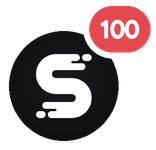
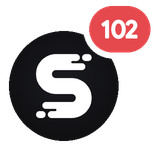
docs: refresh README contributors

Changed region(s): [[0.641, 0.1067, 0.8974, 0.2667]]

diff --git a/README.md b/README.md
@@ -154,7 +154,7 @@ Thank you to everyone who contributes to Rafeeq! Listed by commit contributions,
 
 <!-- CONTRIBUTORS:START -->
 <p>
-  <a href="https://github.com/teamsazen"><picture><source media="(prefers-color-scheme: dark)" srcset=".github/readme/contributors/98111211-dark.png"><img src=".github/readme/contributors/98111211-light.png" alt="teamsazen: 100 commits" title="teamsazen: 100 commits" width="78" height="75"></picture></a>
+  <a href="https://github.com/teamsazen"><picture><source media="(prefers-color-scheme: dark)" srcset=".github/readme/contributors/98111211-dark.png"><img src=".github/readme/contributors/98111211-light.png" alt="teamsazen: 102 commits" title="teamsazen: 102 commits" width="78" height="75"></picture></a>
   <a href="https://github.com/abdushakoor12"><picture><source media="(prefers-color-scheme: dark)" srcset=".github/readme/contributors/60779242-dark.png"><img src=".github/readme/contributors/60779242-light.png" alt="abdushakoor12: 2 commits" title="abdushakoor12: 2 commits" width="74" height="75"></picture></a>
 </p>
 <!-- CONTRIBUTORS:END -->
